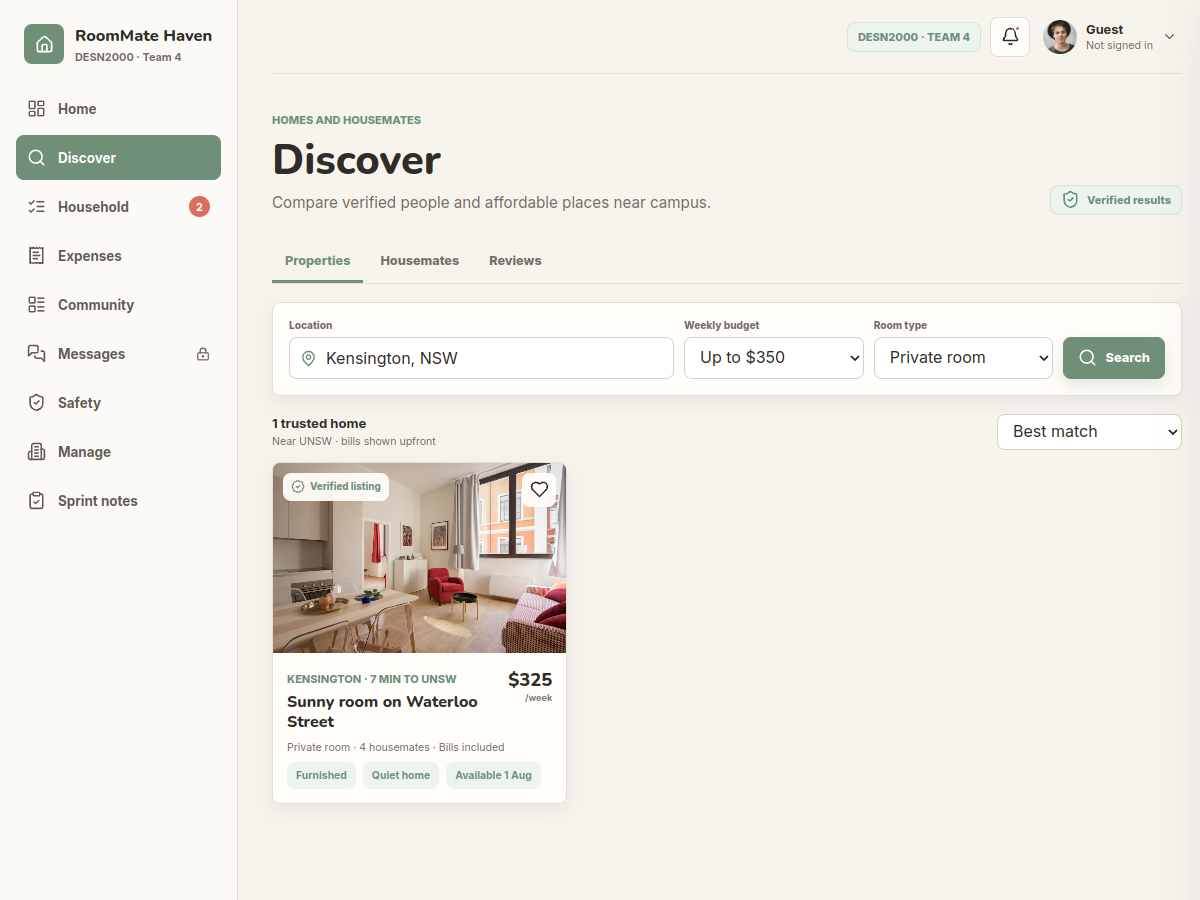
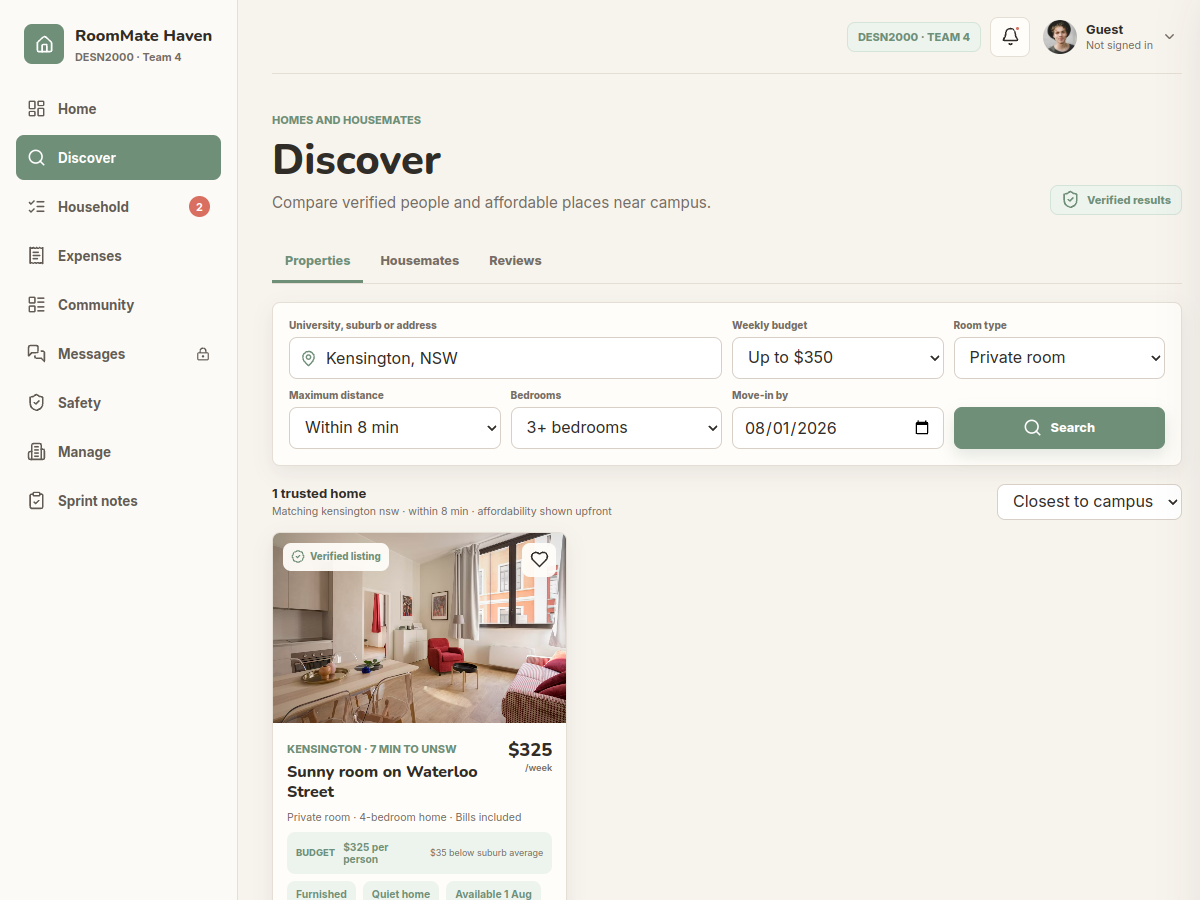
Complete Sprint 1 prototype evidence

diff --git a/part2/group_report/group_report_part2.tex b/part2/group_report/group_report_part2.tex
@@ -681,7 +681,7 @@ The preliminary prototype is a functional high-fidelity HTML, CSS and JavaScript
     \label{tabprototypescope}
 \end{table}
 
-This fidelity is appropriate because the rubric requires observable, testable interactions linked to user stories. A clickable interface allows the team to measure completion, errors and comprehension, while avoiding the cost and privacy risk of a production backend at this stage. The prototype does not perform real identity checks, encryption, database persistence or translation services. The phone check uses a demonstration code, and the current rule workflow represents rule creation and the agreed outcome but not yet the full unanimous acknowledgement sequence required by AC-US10-02. These limitations define the next iteration rather than being presented as completed functionality.
+This fidelity is appropriate because the rubric requires observable, testable interactions linked to user stories. A clickable interface allows the team to measure completion, errors and comprehension, while avoiding the cost and privacy risk of a production backend at this stage. The prototype does not perform real identity checks, production encryption, database persistence or external translation services. Property filtering, compatibility calculation and unanimous rule approval run locally against seeded data, while the phone check uses a demonstration code. The prototype therefore tests the interaction logic and user comprehension without claiming production security or independently authenticated housemate accounts.
 
 \subsection{Prototype Flow}
 
@@ -722,7 +722,7 @@ This fidelity is appropriate because the rubric requires observable, testable in
     \begin{minipage}[t]{0.48\textwidth}
         \centering
         \includegraphics[width=\linewidth]{US-13_property-search-filters.png}\\[-0.2em]
-        \small\textbf{S-01: Property search.} Location, room type and weekly budget controls support the first narrowing decision.
+        \small\textbf{S-01: Property search.} Location, budget, room type, distance, bedrooms and move-in date combine into one testable result set.
     \end{minipage}
     \hfill
     \begin{minipage}[t]{0.48\textwidth}
@@ -739,7 +739,7 @@ This fidelity is appropriate because the rubric requires observable, testable in
     \begin{minipage}[t]{0.48\textwidth}
         \centering
         \includegraphics[width=\linewidth]{US-12_lifestyle-housemate-filters.png}\\[-0.2em]
-        \small\textbf{S-03: Lifestyle matching.} Filters narrow the ranked results and expose the reasons behind a match.
+        \small\textbf{S-03: Lifestyle matching.} An editable preference profile recalculates scores, explanations and ranking before filters narrow the results.
     \end{minipage}
     \hfill
     \begin{minipage}[t]{0.48\textwidth}
@@ -762,18 +762,18 @@ This fidelity is appropriate because the rubric requires observable, testable in
     \begin{minipage}[t]{0.48\textwidth}
         \centering
         \includegraphics[width=\linewidth]{US-10_agreed-noise-rules.png}\\[-0.2em]
-        \small\textbf{S-06: Agreed rule outcome.} The expanded quiet-hours rule shows the detail required to avoid verbal ambiguity.
+        \small\textbf{S-06: Unanimous rule approval.} A proposal becomes active only after Emily, Daniel and Mia have all approved it.
     \end{minipage}
     \caption{Shared-expectation screens for accessible and explicit household rules.}
     \label{figprototypescreensrules}
 \end{figure}
 
-The screens demonstrate both the normal path and observable system feedback: result counts change after filtering, incompatible housemate cards are removed, messaging remains locked until verification, personal contact details trigger a warning, language changes update the rule content, and incomplete rule forms display field-level errors.
+The screens demonstrate both the normal path and observable system feedback: multi-criteria property filters update and sort the result set, lifestyle preferences recalculate compatibility scores, contradictory schedules are rejected, messaging remains locked until verification, personal contact details trigger a warning, language changes update rule content, and a proposed rule remains inactive until every housemate approves it.
 
 \section{Prototype-to-User-Story Traceability}
 \label{sectraceability}
 
-Each screen is mapped to the user story and acceptance criteria that it demonstrates. Table~\ref{tabprototypetraceability} distinguishes complete interaction evidence from partial representation, so the prototype does not imply that a static field or seeded result satisfies an entire acceptance criterion. The same screen identifiers are used by the test plan in Section~\ref{sectestplan}.
+Each screen is mapped to the user story and acceptance criteria that it demonstrates. Table~\ref{tabprototypetraceability} identifies the exact interaction evidence and keeps production-system boundaries separate from prototype task completion. The same screen identifiers are used by the test plan in Section~\ref{sectestplan}.
 
 \begin{table}[H]
     \centering
@@ -783,12 +783,12 @@ Each screen is mapped to the user story and acceptance criteria that it demonstr
         \toprule
         Screen ID & Prototype screen & Story ID & Acceptance ID & Testable interaction & Link\\
         \midrule
-        S-01 & Property search and budget filtering & US-13 & AC-US13-02 (partial) & Change the weekly budget and submit the search; the visible cards and result count update. Location and room-type fields are represented but are not yet connected to filtering logic. & \href{http://roommate-haven-dev.eba-2h6p4mxq.ap-southeast-2.elasticbeanstalk.com/\#discover/properties}{Open}\\
+        S-01 & Multi-criteria property search & US-13 & AC-US13-01--04, AC-US13-06 & Combine university or suburb, budget, room type, distance, bedrooms and move-in date; results update, sort by campus distance, show affordability and provide a broadening suggestion when no exact match exists. & \href{http://roommate-haven-dev.eba-2h6p4mxq.ap-southeast-2.elasticbeanstalk.com/\#discover/properties}{Open}\\
         S-02 & Verified housemate results & US-11 & AC-US11-01, AC-US11-02 & Identify identity and phone badges, then inspect the verified-only filter used by the result set. & \href{http://roommate-haven-dev.eba-2h6p4mxq.ap-southeast-2.elasticbeanstalk.com/\#discover/housemates}{Open}\\
-        S-03 & Lifestyle compatibility filters & US-12 & AC-US12-01, AC-US12-02 (partial) & Select ``Very tidy'' and ``Quiet nights''; the results narrow and the visible score and lifestyle facts explain the strongest match. & \href{http://roommate-haven-dev.eba-2h6p4mxq.ap-southeast-2.elasticbeanstalk.com/\#discover/housemates}{Open}\\
+        S-03 & Profile-derived compatibility ranking & US-12 & AC-US12-01, AC-US12-02, AC-US12-04--06 & Edit the lifestyle profile to recalculate and re-rank scores, inspect the explanation, submit incomplete or conflicting preferences for validation, and broaden strict filters after a zero-result state. & \href{http://roommate-haven-dev.eba-2h6p4mxq.ap-southeast-2.elasticbeanstalk.com/\#discover/housemates}{Open}\\
         S-04 & Authentication and secure messages & US-09 & AC-US09-01, AC-US09-04 & Attempt to message while signed out, complete login and the phone check, send a normal message, then enter an email or phone number to trigger blocking and a privacy warning. & \href{http://roommate-haven-dev.eba-2h6p4mxq.ap-southeast-2.elasticbeanstalk.com/\#messages}{Open}\\
         S-05 & Multilingual household rule list & US-02 & AC-US02-01, AC-US02-02, AC-US02-03 & View every rule in one list, change the language, and expand a rule to reveal the housemate's explanation. & \href{http://roommate-haven-dev.eba-2h6p4mxq.ap-southeast-2.elasticbeanstalk.com/\#household/rules}{Open}\\
-        S-06 & Rule creation and agreed outcome & US-10, US-02 & AC-US10-04, AC-US02-04 & Submit an incomplete rule form to trigger field-level errors, then inspect the existing agreed quiet-hours rule. Unanimous acknowledgement in AC-US10-02 is a next-iteration gap. & \href{http://roommate-haven-dev.eba-2h6p4mxq.ap-southeast-2.elasticbeanstalk.com/\#household/rules}{Open}\\
+        S-06 & Rule proposal and unanimous approval & US-10, US-02 & AC-US10-01, AC-US10-02, AC-US10-04, AC-US02-01 & Submit an incomplete rule for validation, send a complete proposal to every housemate, approve or request changes as each reviewer, and confirm the rule enters the active list with an agreement timestamp only after all approvals. & \href{http://roommate-haven-dev.eba-2h6p4mxq.ap-southeast-2.elasticbeanstalk.com/\#household/rules}{Open}\\
         \bottomrule
     \end{tabularx}
     \label{tabprototypetraceability}
@@ -807,11 +807,11 @@ The prototype will be evaluated through five moderated usability tests that foll
         \toprule
         Test & Goal & Stories & Acceptance criteria & Responsible\\
         \midrule
-        T1 & Narrow properties by weekly budget & US-13 & AC-US13-02 (partial) & Pranav\\
+        T1 & Narrow properties with combined search criteria & US-13 & AC-US13-01--04, AC-US13-06 & Pranav\\
         T2 & Recognise verified housemate profiles & US-11 & AC-US11-01, AC-US11-02 & Nicky\\
-        T3 & Use lifestyle compatibility to choose a match & US-12 & AC-US12-01, AC-US12-02 (partial) & Liam\\
+        T3 & Build a profile and use recalculated compatibility & US-12 & AC-US12-01, AC-US12-02, AC-US12-04--06 & Liam\\
         T4 & Complete authentication and message safely & US-09 & AC-US09-01, AC-US09-04 & Qian Cao\\
-        T5 & Understand multilingual rules and form errors & US-02, US-10 & AC-US02-01--04, AC-US10-04 & Liam\\
+        T5 & Propose, review and activate a house rule & US-02, US-10 & AC-US02-01--03, AC-US10-01, AC-US10-02, AC-US10-04 & Liam\\
         \bottomrule
     \end{tabularx}
     \label{tabtestoverview}
@@ -820,19 +820,19 @@ The prototype will be evaluated through five moderated usability tests that foll
 \begin{table}[H]
     \centering
     \small
-    \caption{Test T1. Narrow properties by weekly budget.}
+    \caption{Test T1. Narrow properties with combined search criteria.}
     \begin{tabularx}{\textwidth}{@{}L{3.4cm}Y@{}}
         \toprule
         Aspect & Description\\
         \midrule
-        Test goal & Verify that a student can narrow the seeded property results to an affordable option.\\
+        Test goal & Verify that a student can combine location, affordability and availability criteria to identify a suitable property.\\
         Related stories & US-13; S-01\\
-        Acceptance criteria & AC-US13-02, tested only for the currently functional weekly-budget control.\\
+        Acceptance criteria & AC-US13-01, AC-US13-02, AC-US13-03, AC-US13-04 and AC-US13-06\\
         Target user & Student moving near UNSW with a fixed weekly budget.\\
-        Task scenario & ``You need a room near UNSW for no more than \$350 per week. Narrow the results and identify one suitable home.''\\
-        Success criteria & $\geq$4/5 users change the budget, submit the search and identify the remaining listing in $\leq$2 minutes. The visible result count and cards must update without facilitator help.\\
-        Expected errors & Users do not notice the Search button, interpret the price as monthly, or expect the location and room-type fields to update results at this fidelity.\\
-        Data to collect & Completion rate, time on task, selected listing, misclicks and comments about unavailable filters.\\
+        Task scenario & ``Find a private room in Kensington within eight minutes of UNSW, in a household with at least three bedrooms, available by 1 August, for no more than \$350 per week. Explain its affordability rating.''\\
+        Success criteria & $\geq$4/5 users enter all six criteria, reach the single matching listing and explain its Budget indicator in $\leq$3 minutes. A deliberately impossible combination must produce the no-result explanation and broadening action.\\
+        Expected errors & Users overlook a second-row filter, interpret the move-in date in the wrong direction, or confuse household bedrooms with available rooms.\\
+        Data to collect & Completion rate, time on task, filters changed, selected listing, affordability interpretation and recovery from the empty state.\\
         Responsible & Pranav\\
         \bottomrule
     \end{tabularx}
@@ -864,19 +864,19 @@ The prototype will be evaluated through five moderated usability tests that foll
 \begin{table}[H]
     \centering
     \small
-    \caption{Test T3. Use lifestyle compatibility to choose a match.}
+    \caption{Test T3. Build a profile and use recalculated compatibility.}
     \begin{tabularx}{\textwidth}{@{}L{3.4cm}Y@{}}
         \toprule
         Aspect & Description\\
         \midrule
-        Test goal & Verify that users can narrow housemate results and explain a compatibility choice using lifestyle evidence.\\
+        Test goal & Verify that users can create a complete preference profile and understand how it changes compatibility ranking.\\
         Related stories & US-12; S-03\\
-        Acceptance criteria & AC-US12-01 and AC-US12-02, represented by seeded scores and visible lifestyle facts.\\
+        Acceptance criteria & AC-US12-01, AC-US12-02, AC-US12-04, AC-US12-05 and AC-US12-06\\
         Target user & Student who values a tidy home and quiet nights.\\
-        Task scenario & ``Find the strongest verified match for someone who is very tidy and prefers quiet nights. Explain why that person is the best fit.''\\
-        Success criteria & $\geq$4/5 users select both filters, reach the single matching result and cite the match score plus at least one relevant lifestyle fact in $\leq$2 minutes.\\
-        Expected errors & Users treat the score as a safety rating, rely only on the photo, or do not understand why a card disappeared.\\
-        Data to collect & Filter completion, selected profile, reasons given, time on task and score interpretation.\\
+        Task scenario & ``Save a very tidy, mostly quiet profile with occasional guests and a flexible schedule. Identify the best match and explain the score. Then select both Early riser and Late sleeper, and finally apply all three strict lifestyle filters.''\\
+        Success criteria & $\geq$4/5 users save the complete profile, identify Emily as the 94\% top match and cite a profile-derived reason in $\leq$3 minutes. The contradictory schedule must be rejected, and the zero-result state must offer the closest-match recovery action.\\
+        Expected errors & Users treat the score as a safety rating, do not notice that ranking changes after saving, or overlook the schedule conflict message.\\
+        Data to collect & Profile completion, ranking interpretation, conflict recovery, empty-state recovery, time on task and reasons given.\\
         Responsible & Liam\\
         \bottomrule
     \end{tabularx}
@@ -908,26 +908,26 @@ The prototype will be evaluated through five moderated usability tests that foll
 \begin{table}[H]
     \centering
     \small
-    \caption{Test T5. Understand multilingual rules and form errors.}
+    \caption{Test T5. Propose, review and activate a house rule.}
     \begin{tabularx}{\textwidth}{@{}L{3.4cm}Y@{}}
         \toprule
         Aspect & Description\\
         \midrule
-        Test goal & Verify that a user can find, translate and clarify household expectations, and receives clear feedback when a proposed rule is incomplete.\\
+        Test goal & Verify that a household rule remains a proposal until every housemate approves it, while existing expectations remain accessible.\\
         Related stories & US-02, US-10; S-05 and S-06\\
-        Acceptance criteria & AC-US02-01, AC-US02-02, AC-US02-03, AC-US02-04 and AC-US10-04\\
+        Acceptance criteria & AC-US02-01, AC-US02-02, AC-US02-03, AC-US10-01, AC-US10-02 and AC-US10-04\\
         Target user & Student living in a shared apartment for the first time and using English as a second language.\\
-        Task scenario & ``Change the rules to Simplified Chinese, find the quiet-hours expectation and open its explanation. Then start adding a new noise rule and submit it without a title or category.''\\
-        Success criteria & $\geq$4/5 users complete the language change, locate and expand the noise rule, and trigger the required-field messages in $\leq$3 minutes. Each user must correctly state the quiet-hours period after reading the explanation.\\
-        Expected errors & Users overlook the language selector, mistake the summary for the full explanation, or expect an incomplete rule to be saved.\\
-        Data to collect & Completion rate, language-control discovery, comprehension answer, validation errors noticed and time on task.\\
+        Task scenario & ``Open the quiet-hours explanation, then propose a new late-gathering rule. First submit it without a category, then complete it. Record one change request, revise it, and approve as Emily, Daniel and Mia.''\\
+        Success criteria & $\geq$4/5 users trigger the required-field message, send the complete proposal, understand that a change request pauses activation, and reach the Active rule state only after the third approval in $\leq$4 minutes. The rule must then appear in Active expectations with all names and a timestamp.\\
+        Expected errors & Users confuse a proposal with an active rule, expect one approval to be sufficient, or miss the revise-and-resubmit action after a requested change.\\
+        Data to collect & Validation errors noticed, proposal-state comprehension, approval order, time on task and confirmation that the active timestamp was found.\\
         Responsible & Liam\\
         \bottomrule
     \end{tabularx}
     \label{tabtestt5}
 \end{table}
 
-After each round the team will compile results into one summary, rank observed issues by severity and feed them into the next prototype iteration. Failed or partially represented acceptance criteria will be recorded by identifier. The highest-priority planned changes are to connect every property filter, generate compatibility from a completed preference profile, and add the full propose--review--unanimous acknowledgement workflow for US-10.
+After each round the team will compile results into one summary, rank observed issues by severity and feed them into the next prototype iteration. Failed acceptance criteria will be recorded by identifier. The next technical iteration would replace seeded local data with persistent services, run rule approval through independently authenticated housemate accounts, and connect verification to a secure identity provider.
 
 \section{Conclusion}
 
@@ -957,24 +957,24 @@ Each user story maps to exactly one goal-level use case, and both identifiers st
         \toprule
         Story & Epic & Use case & Primary actor & Successful outcome & Scope & Website screenshot\\
         \midrule
-        US-01 & EP-02 & UC-01 Set up and manage chore roster & Domestic student / shared-house resident & The user can create, assign and rotate chores among housemates and track completion history. & MVP & \\
-        US-02 & EP-02 & UC-02 View and manage household rules & International student / shared-house resident & The user can view all household rules and expectations in their preferred language in a single location. & MVP & \\
-        US-03 & EP-02 & UC-03 Propose and approve chore system & Domestic student & All housemates have reviewed and approved a structured chore system before it becomes active. & MVP & \\
-        US-04 & EP-02 & UC-04 Log and split shared expenses & Shared-house resident & The user can log a shared expense and the system automatically calculates and assigns each housemate's share. & MVP & \\
-        US-05 & EP-02 & UC-05 Track outstanding balances & International student / shared-house resident & The user can view a real-time summary of who owes what and mark balances as settled. & MVP & \\
-        US-06 & EP-02 & UC-06 Split utility bills & International student / shared-house resident & The user can input a utility bill and split it equally or by usage among selected housemates. & MVP & \\
-        US-07 & EP-02 & UC-07 Post and view household notices & Shared-house resident & The user can post a notice visible to all housemates on a dedicated noticeboard separate from general messaging. & MVP & \\
-        US-08 & EP-02 & UC-08 Raise anonymous household issues & Domestic student / shared-house resident & A household issue is posted to the shared space without revealing the submitter's identity if the anonymous option is selected. & MVP & \\
-        US-09 & EP-01 & UC-09 Send secure in-app messages & International student / shared-house resident & The user can send and receive messages without either party's personal contact details being visible. & MVP & \\
-        US-10 & EP-02 & UC-10 Set and view agreed house rules & Shared-house resident & All housemates have acknowledged a proposed house rule before it becomes active and can reference it during disputes. & MVP & \\
-        US-11 & EP-01 & UC-11 View verified housemate profiles & International student / accommodation seeker & The user can view verified profiles with identity badges and filter search results to show only verified profiles. & MVP & \\
-        US-12 & EP-01 & UC-12 Filter housemates by lifestyle preferences & Shared-house resident / accommodation seeker & The user can set lifestyle preference filters and view a compatibility score and summary for each potential housemate. & MVP & \\
-        US-13 & EP-01 & UC-13 Search and filter property listings & Domestic student / accommodation seeker & The user can search for listings by university proximity and apply filters for rent, distance, bedrooms and move-in date. & MVP & \\
-        US-14 & EP-03 & UC-14 Receive overdue chore and expense reminders & Shared-house resident & The user receives automatic in-app reminders when a chore or expense payment is overdue. & Extension & \\
-        US-15 & EP-03 & UC-15 Read and submit housemate reviews & Shared-house resident / accommodation seeker & The user can read reviews left by previous housemates and submit a review after a confirmed tenancy ends. & Extension & \\
-        US-16 & EP-04 & UC-16 Track rent and send reminders & Property manager & Rent status is recorded per tenant and overdue tenants receive automatic reminders. & Secondary & \\
-        US-17 & EP-04 & UC-17 Create and manage property listings & Property manager & A complete property listing is published and visible to students searching for accommodation. & Secondary & \\
-        US-18 & EP-04 & UC-18 Send tenant announcements & Property manager & An announcement is delivered to all tenants of a selected property with read receipt tracking. & Secondary & \\
+        US-01 & EP-02 & UC-01 Set up and manage chore roster & Domestic student / shared-house resident & The user can create, assign and rotate chores among housemates and track completion history. & MVP & \href{http://roommate-haven-dev.eba-2h6p4mxq.ap-southeast-2.elasticbeanstalk.com/?capture=US-01}{View}\\
+        US-02 & EP-02 & UC-02 View and manage household rules & International student / shared-house resident & The user can view all household rules and expectations in their preferred language in a single location. & MVP & \href{http://roommate-haven-dev.eba-2h6p4mxq.ap-southeast-2.elasticbeanstalk.com/?capture=US-02}{View}\\
+        US-03 & EP-02 & UC-03 Propose and approve chore system & Domestic student & All housemates have reviewed and approved a structured chore system before it becomes active. & MVP & \href{http://roommate-haven-dev.eba-2h6p4mxq.ap-southeast-2.elasticbeanstalk.com/?capture=US-03}{View}\\
+        US-04 & EP-02 & UC-04 Log and split shared expenses & Shared-house resident & The user can log a shared expense and the system automatically calculates and assigns each housemate's share. & MVP & \href{http://roommate-haven-dev.eba-2h6p4mxq.ap-southeast-2.elasticbeanstalk.com/?capture=US-04}{View}\\
+        US-05 & EP-02 & UC-05 Track outstanding balances & International student / shared-house resident & The user can view a real-time summary of who owes what and mark balances as settled. & MVP & \href{http://roommate-haven-dev.eba-2h6p4mxq.ap-southeast-2.elasticbeanstalk.com/?capture=US-05}{View}\\
+        US-06 & EP-02 & UC-06 Split utility bills & International student / shared-house resident & The user can input a utility bill and split it equally or by usage among selected housemates. & MVP & \href{http://roommate-haven-dev.eba-2h6p4mxq.ap-southeast-2.elasticbeanstalk.com/?capture=US-06}{View}\\
+        US-07 & EP-02 & UC-07 Post and view household notices & Shared-house resident & The user can post a notice visible to all housemates on a dedicated noticeboard separate from general messaging. & MVP & \href{http://roommate-haven-dev.eba-2h6p4mxq.ap-southeast-2.elasticbeanstalk.com/?capture=US-07}{View}\\
+        US-08 & EP-02 & UC-08 Raise anonymous household issues & Domestic student / shared-house resident & A household issue is posted to the shared space without revealing the submitter's identity if the anonymous option is selected. & MVP & \href{http://roommate-haven-dev.eba-2h6p4mxq.ap-southeast-2.elasticbeanstalk.com/?capture=US-08}{View}\\
+        US-09 & EP-01 & UC-09 Send secure in-app messages & International student / shared-house resident & The user can send and receive messages without either party's personal contact details being visible. & MVP & \href{http://roommate-haven-dev.eba-2h6p4mxq.ap-southeast-2.elasticbeanstalk.com/?capture=US-09}{View}\\
+        US-10 & EP-02 & UC-10 Set and view agreed house rules & Shared-house resident & All housemates have acknowledged a proposed house rule before it becomes active and can reference it during disputes. & MVP & \href{http://roommate-haven-dev.eba-2h6p4mxq.ap-southeast-2.elasticbeanstalk.com/?capture=US-10}{View}\\
+        US-11 & EP-01 & UC-11 View verified housemate profiles & International student / accommodation seeker & The user can view verified profiles with identity badges and filter search results to show only verified profiles. & MVP & \href{http://roommate-haven-dev.eba-2h6p4mxq.ap-southeast-2.elasticbeanstalk.com/?capture=US-11}{View}\\
+        US-12 & EP-01 & UC-12 Filter housemates by lifestyle preferences & Shared-house resident / accommodation seeker & The user can set lifestyle preference filters and view a compatibility score and summary for each potential housemate. & MVP & \href{http://roommate-haven-dev.eba-2h6p4mxq.ap-southeast-2.elasticbeanstalk.com/?capture=US-12}{View}\\
+        US-13 & EP-01 & UC-13 Search and filter property listings & Domestic student / accommodation seeker & The user can search for listings by university proximity and apply filters for rent, distance, bedrooms and move-in date. & MVP & \href{http://roommate-haven-dev.eba-2h6p4mxq.ap-southeast-2.elasticbeanstalk.com/?capture=US-13}{View}\\
+        US-14 & EP-03 & UC-14 Receive overdue chore and expense reminders & Shared-house resident & The user receives automatic in-app reminders when a chore or expense payment is overdue. & Extension & \href{http://roommate-haven-dev.eba-2h6p4mxq.ap-southeast-2.elasticbeanstalk.com/?capture=US-14}{View}\\
+        US-15 & EP-03 & UC-15 Read and submit housemate reviews & Shared-house resident / accommodation seeker & The user can read reviews left by previous housemates and submit a review after a confirmed tenancy ends. & Extension & \href{http://roommate-haven-dev.eba-2h6p4mxq.ap-southeast-2.elasticbeanstalk.com/?capture=US-15}{View}\\
+        US-16 & EP-04 & UC-16 Track rent and send reminders & Property manager & Rent status is recorded per tenant and overdue tenants receive automatic reminders. & Secondary & \href{http://roommate-haven-dev.eba-2h6p4mxq.ap-southeast-2.elasticbeanstalk.com/?capture=US-16}{View}\\
+        US-17 & EP-04 & UC-17 Create and manage property listings & Property manager & A complete property listing is published and visible to students searching for accommodation. & Secondary & \href{http://roommate-haven-dev.eba-2h6p4mxq.ap-southeast-2.elasticbeanstalk.com/?capture=US-17}{View}\\
+        US-18 & EP-04 & UC-18 Send tenant announcements & Property manager & An announcement is delivered to all tenants of a selected property with read receipt tracking. & Secondary & \href{http://roommate-haven-dev.eba-2h6p4mxq.ap-southeast-2.elasticbeanstalk.com/?capture=US-18}{View}\\
         \bottomrule
     \end{tabularx}
     \label{tabusucmapping}

diff --git a/part2/user_story_screenshots/README.md b/part2/user_story_screenshots/README.md
@@ -17,10 +17,10 @@ corresponding user story.
 | US-07 | Household noticeboard | `US-07_household-noticeboard.png` |
 | US-08 | Anonymous household issue | `US-08_anonymous-household-issue.png` |
 | US-09 | Secure in-app messaging | `US-09_secure-in-app-messaging.png` |
-| US-10 | Agreed noise rules | `US-10_agreed-noise-rules.png` |
+| US-10 | Unanimous house-rule approval and activation | `US-10_agreed-noise-rules.png` |
 | US-11 | Verified housemate profiles | `US-11_verified-housemate-profiles.png` |
-| US-12 | Lifestyle preference filters | `US-12_lifestyle-housemate-filters.png` |
-| US-13 | Property location and budget filters | `US-13_property-search-filters.png` |
+| US-12 | Profile-derived compatibility ranking | `US-12_lifestyle-housemate-filters.png` |
+| US-13 | Multi-criteria property and affordability filters | `US-13_property-search-filters.png` |
 | US-14 | Overdue chore and expense reminders | `US-14_overdue-reminders.png` |
 | US-15 | Verified former-housemate reviews | `US-15_housemate-reviews.png` |
 | US-16 | Rent tracking and reminders | `US-16_rent-tracking-reminders.png` |